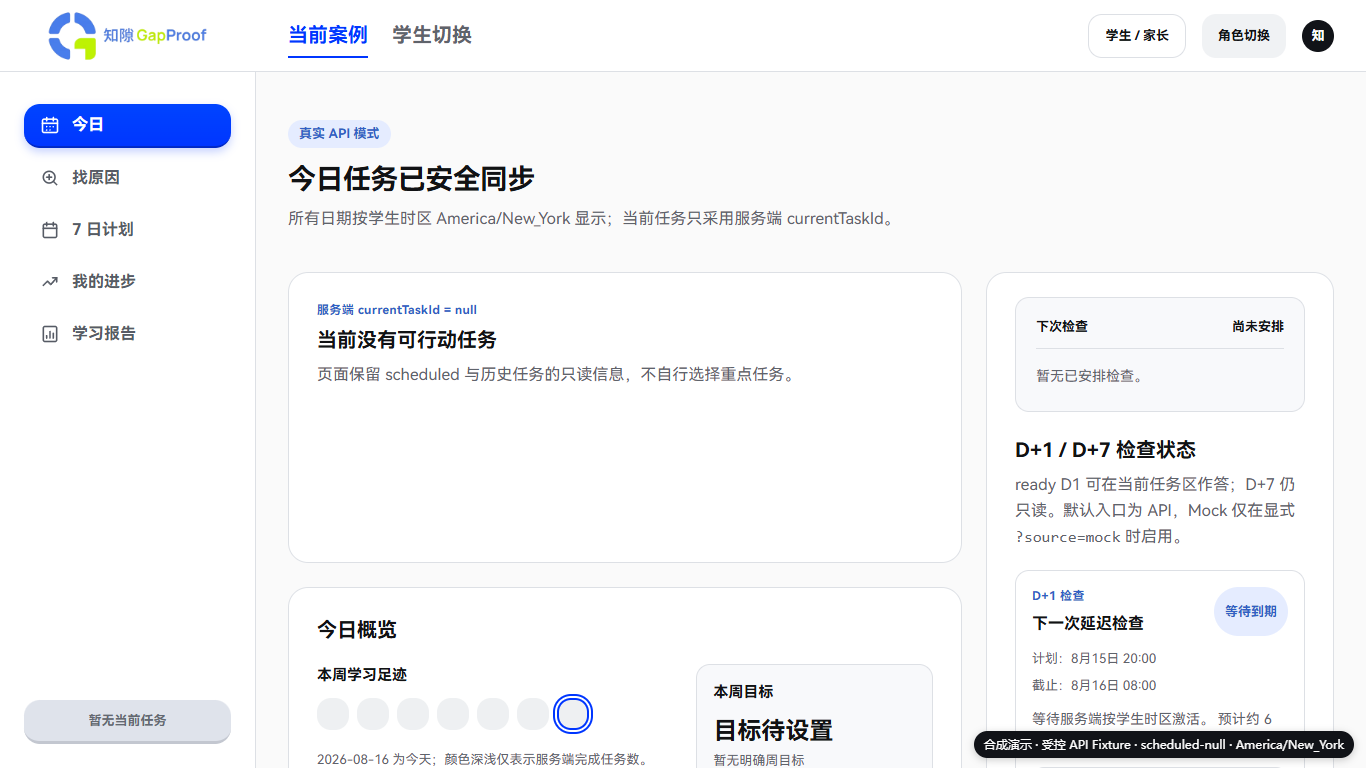
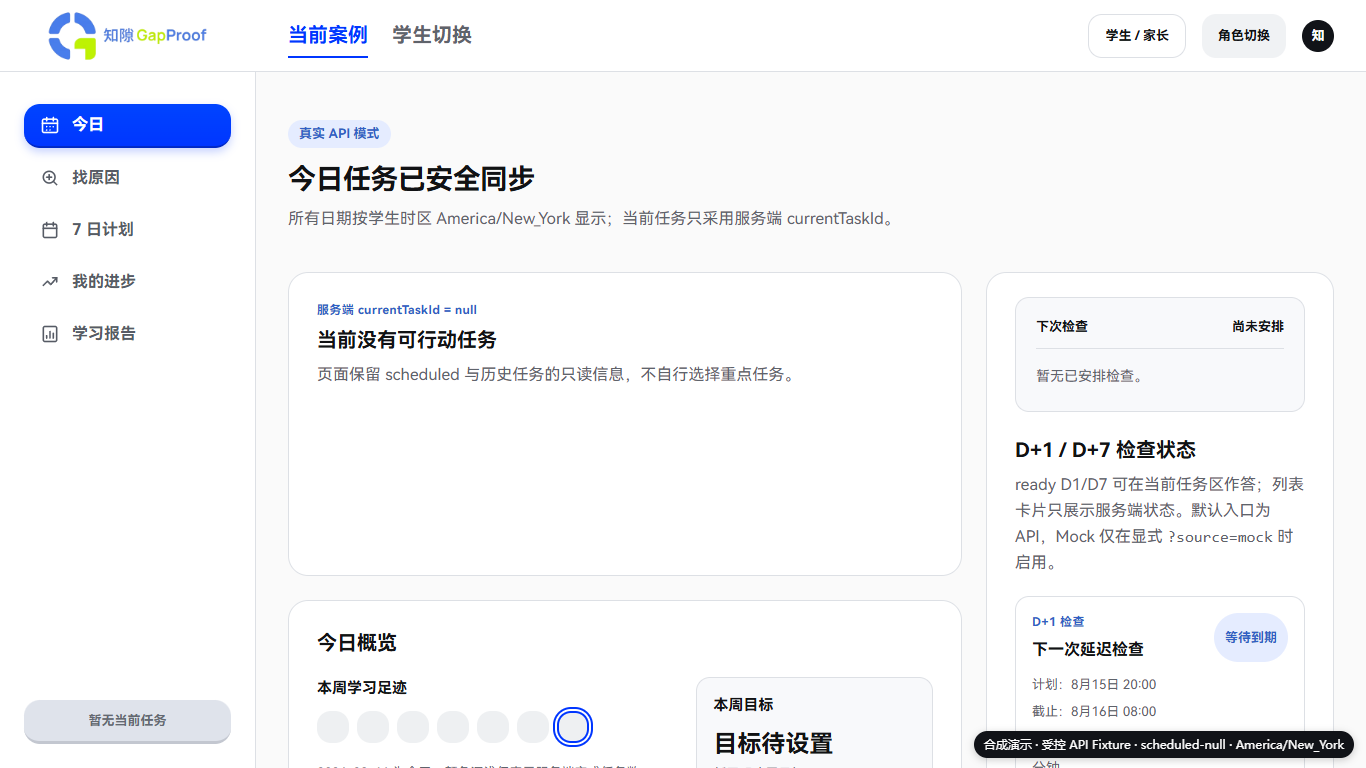
feat: submit D7 retests safely from Today

diff --git a/PROJECT_MASTER.md b/PROJECT_MASTER.md
@@ -2,9 +2,9 @@
 project_name: "知隙 GapProof"
 document_title: "GapProof 项目主文档（Project Master / 单一事实源）"
 document_role: "跨窗口协作、产品规划、技术设计、比赛交付与状态管理的唯一主文档"
-version: "0.1.32"
+version: "0.1.33"
 status: "ACTIVE"
-current_stage: "项目本身初赛验收冲刺；PUSH-017 引导任务完成与 D7/两次重排封顶已通过门禁待发布；D7 前端作答和显式识别创建 Case 仍待实现"
+current_stage: "项目本身初赛验收冲刺；PUSH-018 D7 前端安全作答已通过门禁待发布；显式识别创建 Case 仍待实现"
 last_updated: "2026-08-15"
 timezone: "Asia/Singapore"
 owner: "项目发起人"
@@ -131,6 +131,7 @@ next_action:
 - 迁移保持选择性：只替换达到阈值或漂移的任务，健康任务继续使用；仅协调任务自身触发阈值时才迁移控制面。新任务从最新 Git 锚点创建，不携带旧全文上下文。
 - 协调迁移时只更新同一个 heartbeat target，并停止旧协调的持续目标/自动续跑；不得复制 heartbeat。执行任务不创建独立长期目标。
 - 新建前端或后端执行任务时默认显式使用 `gpt-5.6-luna`、`high` 推理强度；新建协调/文档治理任务时默认显式使用 `gpt-5.6-sol`、`medium` 推理强度。仅在用户另行指定、目标主机不支持或安全恢复需要时偏离，并在交接中记录原因；该规则适用于后续版本与选择性迁移。
+- 用户已在 Codex 客户端为本项目选择“完全访问”；当前及后续前端、后端、协调/文档治理版本在平台实际授予的权限内，常规只读核验、分支/工作树操作、项目文件读写、构建/测试、精确暂存、提交与既定远端推送直接执行，不重复请求用户批准。若某条路径仍被平台强制拦截，改用同权限范围内的等价安全路径并如实记录；本规则不绕过平台安全政策，不扩大任务范围，也不授权未明确要求的破坏性操作或外部主体权限。
 - 本协调目标中的“初赛验收标准”只评估项目本身的代码、契约、交互、测试、数据/隐私边界与可复现性；作品简介、PPT/PDF、视频、报名、提交系统和其他参赛材料不属于本任务的完成条件。竞赛材料可继续作为项目事实记录，但不进入本协调任务的派工与验收门槛。
 
 ---
@@ -143,7 +144,7 @@ next_action:
 
 `[FACT]` GOAI 无界应用赛道参赛手册列出的初赛截止日期为 2026-08-16；具体当天截止时刻、入口、文件大小及后续通知仍须在官网、提交系统或官方群再次核对。
 
-`[DECISION]` 当前处于：**项目本身初赛验收冲刺；学生端“今日”页默认入口已接入真实 API，ready guided 与 D1 均有受控提交，服务端已实现 D7 客观复测、最多两次规则化合成重排和 `support_required` 封顶。D7 前端作答仍未接入。当前初赛项目验收允许使用醒目标注的合成 OCR Demo；真实阿里云 OCR 后置。图片基础检查后必须由用户显式执行“开始识别并创建案例”，该真实 Case/OCR 写入契约尚未冻结或实现。异步报告不属于本轮项目验收；`report_ready` 仅保留“报告已生成、有权威引用且当前可读”的严格语义**。
+`[DECISION]` 当前处于：**项目本身初赛验收冲刺；学生端“今日”页默认入口已接入真实 API，ready guided、D1 与 D7 均有受控提交；D7 客观复测通过仅显示 `repair_verified` 中性结果，失败最多两次规则化合成重排后进入 `support_required`。当前初赛项目验收允许使用醒目标注的合成 OCR Demo；真实阿里云 OCR 后置。图片基础检查后必须由用户显式执行“开始识别并创建案例”，该真实 Case/OCR 写入契约尚未冻结或实现。异步报告不属于本轮项目验收；`report_ready` 仅保留“报告已生成、有权威引用且当前可读”的严格语义**。
 
 ### 1.2 已完成
 
@@ -187,7 +188,7 @@ next_action:
 - `[PLANNED]` 尚未建立 30–40 个技能节点及 12 个深度节点的图谱 V0.1。
 - `[PLANNED]` 尚未制作比赛用原创模拟试卷、合成学生轨迹和独立金标集。
 - `[PLANNED]` 尚未确认至少一位英语教育背景人员能否短时抽检核心金标内容。
-- `[PROTOTYPE]` 已建立最小后端 Thin Slice，并完成真实图片字节上传、确定性图片 header/尺寸质量检查、受 Demo 守卫的 Fake OCR、无网络合成识别确认演示、确定性干预生成、guided/D1 前端提交、D1/D7 后端评分及两次规则化重排封顶；尚未形成从真实 OCR 识别到修复证明的完整端到端 Demo。显式 Case/OCR 启动、识别读取/确认写入、真实 AI 干预、真实题库、D7 前端、真实个性化内容与通知仍未实现；异步报告本轮 deferred。
+- `[PROTOTYPE]` 已建立最小后端 Thin Slice，并完成真实图片字节上传、确定性图片 header/尺寸质量检查、受 Demo 守卫的 Fake OCR、无网络合成识别确认演示、确定性干预生成、guided/D1/D7 前端安全提交、D1/D7 后端评分及两次规则化重排封顶；尚未形成从真实 OCR 识别到修复证明的完整端到端 Demo。显式 Case/OCR 启动、识别读取/确认写入、真实 AI 干预、真实题库、真实个性化内容与通知仍未实现；异步报告本轮 deferred。
 - `[PROTOTYPE]` 学生端“今日”页 F0 Mock、F1b 只读 API、F1c ready D1 客户端作答及真实概览投影已完成对应技术门禁；受控 HTTP 浏览器 Fixture 已证明成功、冲突和网络未知三条交互边界。默认入口现为 API，只有显式 `?source=mock` 使用合成页面；业务主闭环仍未完成，其余学生 P0 页面、家长端页面和评委最小页仍未完成。
 - `[PLANNED]` 尚未完成正式 500 字简介、初赛 PPT、视频、README、数据卡、依赖清单和合规一页纸。
 - `[PLANNED]` 尚未产生可报告的工程评测结果或真实学生学习效果。
@@ -2025,11 +2026,11 @@ review_date:
 | DEC-028 | MVP Agent 固定为六节点 LangGraph.js 图 | accepted | 新增节点必须更新图版本、Schema 和 Golden Cases |
 | DEC-029 | 所有工具先完成接口、Schema、Mock 和错误处理；verify_item/schedule_retest 做 MVP 最小实现 | accepted | 工具边界或 Provider 能力变化 |
 | DEC-030 | escalate_human 先创建待处理记录；analyze_speech/score_writing 暂缓真实能力 | accepted | 真实人工、语音或写作试点启动 |
-| DEC-031 | UUIDv7 + PostgreSQL 16+，完整表结构和删除策略以 TDD v0.3.25 为准 | accepted | 数据规模、扩展支持或合规要求变化 |
+| DEC-031 | UUIDv7 + PostgreSQL 16+，完整表结构和删除策略以 TDD v0.3.26 为准 | accepted | 数据规模、扩展支持或合规要求变化 |
 | DEC-032 | TDD 详细 API 路由为唯一正式接口 | accepted | API 版本升级或新客户端边界产生 |
 | DEC-033 | 杭州阿里云单区域联网 Docker Compose，真实 Provider 演示，Mock 仅测试/故障注入 | accepted | 比赛网络、并发、合规或可用性要求变化 |
 | DEC-034 | DeepSeek `deepseek-v4-flash`、MiniMax `minimax-m3`、腾讯混元 Embedding 作为当前模型配置 | accepted | 账号权限、供应商模型版本或评测结果变化 |
-| DEC-035 | 学生端“今日”页桌面视觉基线已选定；使用 `#0036FF` 导航/进度与 `#B5F800` 行动/积极变化，完整规范以 DESIGN v0.2.22 为准 | accepted | 真实前端实现、可用性测试或品牌资产定稿产生反证 |
+| DEC-035 | 学生端“今日”页桌面视觉基线已选定；使用 `#0036FF` 导航/进度与 `#B5F800` 行动/积极变化，完整规范以 DESIGN v0.2.23 为准 | accepted | 真实前端实现、可用性测试或品牌资产定稿产生反证 |
 | DEC-036 | 新用户今日页先完成第一次检查，不显示虚构的足迹、进展或下次检查；首次任务生成后切换常规今日页 | accepted | onboarding 实测或产品范围变化 |
 | DEC-037 | 目标教材 ISBN 为 `978-7-5720-3630-9`；配套练习 `978-7-5720-3519-7` 不纳入 MVP | accepted | 版权页或出版社正式材料产生冲突 |
 | DEC-038 | 购买教材/试题及完整转换文本保持本地私有并排除 Git；仓库只保存元数据、处理器和项目原创/合成内容 | accepted | 取得可归档的明确再分发许可且完成权利复核 |
@@ -2058,7 +2059,7 @@ review_date:
 | 初赛 PPT | `[PLANNED]` | 8–10 页覆盖评分项 | 原型/图表 |
 | 原创模拟试卷 | `[PLANNED]` | 来源自有、已知根因、许可清楚 | 技能示例 |
 | 合成 Case | `[PROTOTYPE]` | 已完成 1 个原创合成 Case 及低置信、复测失败重排、D+7 成功分支；仍需扩充同题同错不同根因与回归集 | 数据 Schema/教材映射 |
-| 学生“今日”页视觉基线 | `[PROTOTYPE]` | 已选定 Stitch 桌面稿；默认 API、真实概览、guided 完成与 ready D1 客户端作答已通过技术门禁，合成 Mock 仅显式启用；D7 后端已可评分但前端作答仍待接入 | DESIGN v0.2.22 |
+| 学生“今日”页视觉基线 | `[PROTOTYPE]` | 已选定 Stitch 桌面稿；默认 API、真实概览及 guided、ready D1、ready D7 安全作答已通过技术门禁，合成 Mock 仅显式启用；冻结书本越界裁切保持不变 | DESIGN v0.2.23 |
 | 其余学生/家长关键页设计 | `[PLANNED]` | 覆盖主闭环并遵循今日页设计准则 | 视觉基线 |
 | 可点击 Thin Slice | `[PLANNED]` | 上传到修复证明全链路 | 设计/开发 |
 | 数据与合规页 | `[PLANNED]` | 类型、来源、授权、脱敏、删除、边界 | 数据选择 |
@@ -2117,6 +2118,13 @@ review_date:
 ---
 
 ## 30. 变更日志
+
+### v0.1.33 — 2026-08-15
+
+- 合并 Today ready D7 安全作答：提交前读取权威 Case `stateVersion`，一次明确意图使用 UUIDv7，同 key/body 仅重试一次未知/可重试结果；`VERSION_CONFLICT` 刷新后要求重新确认，第二次未知后以 `NETWORK_UNKNOWN` 锁定。
+- 结果只按服务端显示 `repair_verified`、`replan_required` 或 `support_required`；通过不称报告 ready，失败不称真实个性化或已接人工服务。D7 受控浏览器 Fixture 覆盖成功、冲突与网络未知，API 双视口保持 Stitch V1.1 深色卡书本越界裁切。
+- 130 fast、54 PostgreSQL/API/Worker integration、88 apps/web、migration drift、D7/D1/guided/上传/Demo 浏览器 Fixture、Mock/API/Demo 双视口、双 TypeScript 与 Next production build 通过。
+- 登记后续前端、后端与协调/文档治理版本继承用户已授予的完全访问权限，常规项目动作不重复审批；不绕过平台安全或扩大破坏性权限。同步 PRD v0.1.25、TDD v0.3.26、DESIGN v0.2.23 与 PUSH-018。真实 OCR、显式创建 Case/启动识别、30–50 页基准、派生数据留存和异步报告仍保持 unresolved/deferred。
 
 ### v0.1.32 — 2026-08-15
 

diff --git a/PRD.md b/PRD.md
@@ -7,10 +7,10 @@
 
 | 项目 | 内容 |
 |---|---|
-| 文档状态 | Draft v0.1.24 |
+| 文档状态 | Draft v0.1.25 |
 | 产品名称 | 知隙 GapProof |
 | 文档角色 | 产品需求、业务流程、功能范围与验收标准 |
-| 当前阶段 | PUSH-017 guided 完成与 D7/两次重排封顶已通过门禁待发布；D7 前端作答与显式识别创建 Case 仍待实现 |
+| 当前阶段 | PUSH-018 D7 前端安全作答已通过门禁待发布；显式识别创建 Case 仍待实现 |
 | 产品形态 | Web 应用 |
 | 目标教材 | 上海教育出版社《义务教育教科书（五·四学制）英语 八年级上册》 |
 | 适用版本 | 目标教材以 ISBN、当前 PDF 哈希和内容快照锁定；版权页不可取得，版次、印次和册次保持未知 |
@@ -497,10 +497,10 @@ Demo 界面或旁白必须明确区分：
 - `[PROTOTYPE]` Worker 可从 `intervention_ready` 生成 3 步/8 分钟的确定性最小干预任务并进入 `intervention_active`；学生可通过正式接口读取今日任务并提交完整步骤。提交后系统原子创建 24 小时后的 D+1 复测任务、进入 `d1_scheduled`，但 mastery 仅为 `pending_retest`。
 - `[PROTOTYPE]` D+1 任务通过事务内 `retest.due` 延迟 Job 和生产 Worker 到期激活；Demo 可在受环境开关保护的虚拟时钟接口中按 Case 快进。到期仅把任务从 `scheduled` 改为 `ready`，Case 仍为 `d1_scheduled`、mastery 仍为 `pending_retest`。
 - `[PROTOTYPE]` D+1 ready 任务现可通过共享 `POST /v1/tasks/{taskId}/attempts` 契约提交客观选择并由服务端私有答案确定性评分；通过时创建 D7 调度，失败时事务内入队异步重排。当前题目与重排内容仍为明确标记的合成 Fixture，不是现实题库或真实个性化效果。
-- `[PROTOTYPE]` ready D7 已复用同一 attempts 路由完成服务端确定性评分：通过进入 `repair_verified`，不会冒充 `report_ready`；失败按持久 `replan_count` 最多自动重排两次，策略依次为“更换讲解表达与练习形式”和“下探一个前置技能并加入示例”，再次失败进入 `support_required` 且不再入队。D7 前端作答仍未实现；规则化合成内容不等于真实个性化或真实人工协助。
+- `[PROTOTYPE]` ready D7 已复用同一 attempts 路由完成跨端安全作答与服务端确定性评分：Today 提交前读取权威 Case 版本，使用 UUIDv7、同 key/body 单次未知重试、冲突重新确认与未知结果锁定；通过进入 `repair_verified`，不会冒充 `report_ready`；失败按持久 `replan_count` 最多自动重排两次，再次失败进入 `support_required` 且不再入队。规则化合成内容不等于真实个性化或真实人工协助。
 - `[PROTOTYPE]` ready guided intervention 已可在 Today 勾选完整步骤并安全提交；使用权威 Case 版本、UUIDv7 幂等意图、冲突重新确认、独立 GET 恢复和网络未知锁定，完成后只声明安排 D+1，不声明掌握。
-- `[PROTOTYPE]` 学生端“今日”页 F0 Mock、F1b 只读 API、F1c ready D1 客户端作答与真实 overview 已通过对应构建和自动化门禁；F1c 使用共享 attempts contracts、权威 Case 版本、UUIDv7 幂等意图和受控错误状态。受控 HTTP 浏览器 Fixture 已覆盖真实点击成功、`VERSION_CONFLICT` 重新确认与 `NETWORK_UNKNOWN` 锁定三条路径；无参数入口现走真实 API，只有显式 `?source=mock` 使用合成页面，但仍不能作为主闭环完成证据。
-- `[PROTOTYPE]` 已实现 JPEG/PNG/WebP、1B–10MiB 的真实字节上传与确定性图片基础检查闭环：`/materials/new` 计算 SHA-256，以 UUIDv7 固定一次上传/prepare 意图，经同源 API PUT 同一原始字节并读取异步状态；服务端校验归属、MIME/大小/hash，原子落盘后由 `source_asset.quality_check` Worker 验证字节并持久化质量状态。页面不显示对象键、token、内部 ID、文件名、hash 或 OCR 内容。该能力仅是本地 Demo 存储与 `image-header-v1` 检查器，不是生产 S3、完整图片质量模型、OCR、识别确认、Case 创建或真实学习效果；显式创建 Case/启动识别、D7 前端和完整上传到修复证明主闭环仍未实现。
+- `[PROTOTYPE]` 学生端“今日”页 F0 Mock、F1b API、F1c ready D1 与 ready D7 客户端作答及真实 overview 已通过对应构建和自动化门禁；D1/D7 使用共享 attempts contracts、权威 Case 版本、UUIDv7 幂等意图和受控错误状态。D7 受控 HTTP 浏览器 Fixture 已覆盖真实点击成功、`VERSION_CONFLICT` 重新确认与 `NETWORK_UNKNOWN` 锁定三条路径；无参数入口现走真实 API，只有显式 `?source=mock` 使用合成页面，但显式创建 Case/启动识别尚未完成，因此仍不能作为完整主闭环完成证据。
+- `[PROTOTYPE]` 已实现 JPEG/PNG/WebP、1B–10MiB 的真实字节上传与确定性图片基础检查闭环：`/materials/new` 计算 SHA-256，以 UUIDv7 固定一次上传/prepare 意图，经同源 API PUT 同一原始字节并读取异步状态；服务端校验归属、MIME/大小/hash，原子落盘后由 `source_asset.quality_check` Worker 验证字节并持久化质量状态。页面不显示对象键、token、内部 ID、文件名、hash 或 OCR 内容。该能力仅是本地 Demo 存储与 `image-header-v1` 检查器，不是生产 S3、完整图片质量模型、OCR、识别确认、Case 创建或真实学习效果；显式创建 Case/启动识别和完整上传到修复证明主闭环仍未实现。
 - `[PROTOTYPE]` 遗留 Fake OCR 只允许 `simulation && synthetic` 的 Demo Case，API 与 Worker 双重拒绝非 Demo 路径。`/materials/demo/review` 是明确标注的无网络合成识别确认演示：允许本地修正和记录演示确认，提供空态/错误态，但不调用 `/api/v1`、不启动 OCR、不创建或推进 Case、不生成学习结论。真实上传到 Case 的绑定、识别结果读取 DTO 与确认写入仍未实现。
 - 因此，以下验收项仍是完整 MVP 的目标，不因后端局部闭环而标记为 `[LIVE]`。
 
@@ -545,7 +545,7 @@ Demo 界面或旁白必须明确区分：
 - 确认小题提交具有未选择、已选择、提交中、已接收、冲突、失败六种 UI 状态。成功后使用中性“已收到，正在准备下一步”反馈，不把诊断探针包装成考试分数，也不显示内部答案键或评分映射。
 - 当前确认小题、Today、任务详情、干预提交及 D1 `POST /v1/tasks/{taskId}/attempts` 均已具备共享请求/响应 Schema。前端只可消费 `@gapproof/contracts`，不得自行补写任务字段、答案、掌握结论或服务端未返回的首页事实。
 - D+1 的 `scheduled → ready` 由服务端到期 Worker 或 Demo 虚拟时钟产生；学生端不得自行倒计时改状态。`ready` 只表示允许进入复测；只有服务端返回的 D1 attempt 结果才能表示本次通过/失败，且 D1 通过只进入 `d7_scheduled`，不得提前宣称已经掌握。
-- Today 的 `currentTaskId` 为服务端权威 `uuid | null`；当前可行动的 ready D1、ready D7 或 ready guided 任务可被引用，scheduled、completed 或无任务时为 `null`。前端不得从数组顺序猜测替代任务；当前 D7 前端仍只读，须由后续切片接入共享 attempts 契约。
+- Today 的 `currentTaskId` 为服务端权威 `uuid | null`；当前可行动的 ready D1、ready D7 或 ready guided 任务可被引用，scheduled、completed 或无任务时为 `null`。前端不得从数组顺序猜测替代任务；ready D7 已接入共享 attempts 契约，scheduled/completed D7 与“下次检查”卡仍只读。
 - Today 的 `overview` 由服务端始终提供：恰好 7 个截至学生本地“今天”的连续日期及完成任务数、真实周目标或 `null`、未删除待确认 Case 数、最多两条脱敏进展，以及最早 scheduled D1/D7 检查。当前无权威周目标存储，因此返回 `weeklyGoal:null`；显式 API 页面缺失该字段时必须受控报错，不得回退 Mock 或推断百分比。
 - 干预提交必须恰好覆盖任务全部步骤；提交中禁用重复操作，`INVALID_INPUT` 保留已选步骤，`INVALID_TASK_STATE` 刷新今日任务并解释任务已变化，`VERSION_CONFLICT` 只自动刷新一次，不自动重复写入。
 
@@ -656,6 +656,7 @@ PROJECT_MASTER.md
 
 | 版本 | 日期 | 说明 |
 |---|---|---|
+| 0.1.25 | 2026-08-15 | 发布 Today ready D7 安全作答、权威 Case 版本、UUIDv7、同 key/body 单次未知重试、冲突重新确认、`NETWORK_UNKNOWN` 锁定及三种服务端结果中性文案；不开放报告、不宣称真实个性化/人工服务。同步 PROJECT_MASTER v0.1.33、TDD v0.3.26、DESIGN v0.2.23 与 PUSH-018；显式创建 Case/启动识别、真实 OCR、30–50 页基准、派生数据留存和异步报告仍 unresolved/deferred |
 | 0.1.24 | 2026-08-15 | 发布 guided 安全完成与服务端 D7 客观评分、两次规则化重排及 `support_required` 封顶；确认合成 OCR 可满足本轮项目验收、显式开始识别/创建 Case、阿里云处理与未成年人边界、严格 `report_ready` 和异步报告 deferred。D7 前端、真实 OCR、30–50 页基准、派生数据留存仍未完成；同步 PROJECT_MASTER v0.1.32、TDD v0.3.25、DESIGN v0.2.22 与 PUSH-017 |
 | 0.1.23 | 2026-08-15 | 发布受 `simulation && synthetic` 双重守卫的遗留 Fake OCR 与 `/materials/demo/review` 无网络合成识别确认演示；浏览器 Fixture 证明零 `/api/v1`、本地确认、空/错态和脱敏边界。明确不是真实 OCR、上传到 Case 绑定或学习效果；同步 PROJECT_MASTER v0.1.31、TDD v0.3.24、DESIGN v0.2.21 与 PUSH-016，D7/报告/重排产品决策继续暂停 |
 | 0.1.22 | 2026-08-15 | 发布真实确定性图片基础检查闭环：prepare/status contracts、幂等异步 Job、存储字节复核、JPEG/PNG/WebP header/尺寸解析、质量状态持久化及受控前端轮询；明确不是 OCR/完整图片质量模型/生产 S3/学习效果，D7/报告/重排产品决策继续暂停；同步 PROJECT_MASTER v0.1.30、TDD v0.3.23、DESIGN v0.2.20 与 PUSH-015 |

diff --git a/TDD.md b/TDD.md
@@ -2,15 +2,15 @@
 project_name: "知隙 GapProof"
 document_title: "GapProof 技术设计文档（TDD）"
 document_role: "技术路线、系统边界、架构约束与工程验收的权威文档"
-version: "0.3.25"
+version: "0.3.26"
 status: "DRAFT_FOR_IMPLEMENTATION"
 last_updated: "2026-08-15"
 timezone: "Asia/Singapore"
 canonical_path: "D:\\Users\\Eason\\Documents\\ChatGPT\\知隙GapProof\\TDD.md"
 repository_url: "https://github.com/ceason436-hue/GapProof.git"
 upstream_documents:
-  - "D:\\Users\\Eason\\Documents\\ChatGPT\\知隙GapProof\\PROJECT_MASTER.md v0.1.32"
-  - "D:\\Users\\Eason\\Documents\\ChatGPT\\知隙GapProof\\PRD.md Draft v0.1.24"
+  - "D:\\Users\\Eason\\Documents\\ChatGPT\\知隙GapProof\\PROJECT_MASTER.md v0.1.33"
+  - "D:\\Users\\Eason\\Documents\\ChatGPT\\知隙GapProof\\PRD.md Draft v0.1.25"
 ---
 
 # 知隙 GapProof 技术设计文档（TDD）
@@ -1598,6 +1598,7 @@ Git 远端：`https://github.com/ceason436-hue/GapProof.git`
 6. Push Log 描述该次推送包含的功能/文档提交；Git commit SHA、作者和精确时间以远端 Git 历史为准，避免为记录提交自身 SHA 形成递归修改。
 7. 新建前端/后端执行任务默认显式指定 `gpt-5.6-luna` 与 `high` 推理强度；新建协调/文档治理任务默认显式指定 `gpt-5.6-sol` 与 `medium` 推理强度。后续迁移与版本继续继承，偏离时必须记录用户指令、主机能力或安全恢复原因。
 8. 本协调目标中的初赛验收只评估项目本身的代码、契约、交互、测试、数据/隐私边界与可复现性；简介、PPT/PDF、视频、报名、提交系统及其他参赛材料不计入完成条件。
+9. 用户已为本项目选择 Codex“完全访问”；后续前端、后端、协调/文档治理版本在平台实际授予的权限内直接完成常规核验、项目文件读写、分支/工作树、构建/测试、精确暂存、提交与既定远端推送，不重复请求批准。平台强制拦截时使用同权限范围内等价安全路径并记录；不得借此绕过安全政策、扩大切片或执行未明确要求的破坏性操作。
 
 | Push ID | 日期 | 分支 | 状态 | 提交摘要 | 主要内容 | 验证 |
 |---|---|---|---|---|---|---|
@@ -1618,8 +1619,16 @@ Git 远端：`https://github.com/ceason436-hue/GapProof.git`
 | PUSH-015 | 2026-08-15 | `main` | `pushed` | `feat: inspect uploaded source images safely` | 冻结 prepare/status/quality/job contracts；实现幂等 `source_asset.quality_check`、Worker 存储读取与 size/hash 复核、JPEG/PNG/WebP header/尺寸解析、guarded 状态和 0007 migration；前端复用 UUIDv7 意图、受控轮询并显示脱敏质量状态。仅为确定性基础检查，不是 OCR/完整图片质量模型/生产 S3/学习效果；D7/报告/重排产品决策继续暂停 | 116 条快速测试、49 条真实 PostgreSQL/API/Worker 集成测试连续两轮、70 条 apps/web 测试、Drizzle migration drift、Mock/API/图片检查双视口、图片检查与 D1 浏览器 Fixture、全仓 TypeScript、Next.js production build、`git diff --check`、敏感/私有材料/生成缓存与暂存范围审计通过；同轮推送并核对本地/远端 SHA 一致 |
 | PUSH-016 | 2026-08-15 | `main` | `pushed` | `feat: guard and demonstrate synthetic recognition review` | 遗留 Fake OCR 仅允许 `simulation && synthetic` Demo Case，API/Worker 双重守卫；新增 `/materials/demo/review` 无网络合成识别确认演示、本地编辑/确认、空态和错误态。仍为 `fake_ocr` 与合成页面，不是真实 OCR、上传到 Case 绑定、识别写入或学习效果；D7/报告/重排产品决策继续暂停 | 121 条快速测试、50 条真实 PostgreSQL/API/Worker 集成测试、73 条 apps/web 测试、Drizzle migration drift、Demo/上传/D1 浏览器 Fixture、Mock/API/Demo 双视口、全仓 TypeScript、Next.js production build、`git diff --check`、敏感/私有材料/生成缓存与暂存范围审计通过；同轮推送并核对本地/远端 SHA 一致 |
 | PUSH-017 | 2026-08-15 | `main` | `pushed` | `feat: complete guided tasks and cap retest replans` | 合并 guided 安全完成、ready D7 服务端评分、`repair_verified`、持久两次差异化重排与 `support_required` 封顶；同步五项最终产品决策与严格 `report_ready`。D7 前端、真实 OCR、显式创建 Case/启动识别、异步报告仍未实现；规则内容仍为合成骨架 | 126 条快速测试、54 条真实 PostgreSQL/API/Worker 集成测试、81 条 apps/web 测试、Drizzle migration drift、guided/D1/上传/Demo 浏览器 Fixture、Mock/API/Demo 双视口、全仓 TypeScript、Next.js production build、`git diff --check`、敏感/私有材料/生成缓存与暂存范围审计通过；同轮推送并核对本地/远端 SHA 一致 |
+| PUSH-018 | 2026-08-15 | `main` | `pushed` | `feat: submit D7 retests safely from Today` | 合并 ready D7 前端安全作答、权威 Case `stateVersion`、UUIDv7、同 key/body 单次未知重试、冲突刷新后重新确认与 `NETWORK_UNKNOWN` 锁定；只显示 `repair_verified` / `replan_required` / `support_required` 中性结果，不开放报告。同步四主文档与完全访问长期治理；显式创建 Case/启动识别、真实 OCR 与异步报告仍未实现 | 130 条快速测试、54 条真实 PostgreSQL/API/Worker 集成测试、88 条 apps/web 测试、Drizzle migration drift、D7/D1/guided/上传/Demo 浏览器 Fixture、Mock/API/Demo 双视口、全仓及 web TypeScript、Next.js production build、`git diff --check`、敏感/私有材料/生成缓存与暂存范围审计通过；同轮推送并核对本地/远端 SHA 一致 |
 
 ## 27. 变更日志
+
+### v0.3.26 — 2026-08-15
+
+- 接入 Today ready D7 前端 attempts：共享 D7 schema、权威 Case 版本、UUIDv7 幂等意图、POST 同 key/body 一次未知/可重试结果重试、冲突刷新后重新确认及未知结果锁定。
+- 三种结果仅消费服务端 `repair_verified`、`replan_required`、`support_required`；UI 不返回答案键、评分方法、内部 ID 或报告状态。受控 HTTP Fixture 覆盖成功、冲突和网络未知；API 双视口新增 current D7 正常态。
+- 130 fast、54 PostgreSQL/API/Worker integration、88 apps/web、Drizzle migration drift、D7/D1/guided/上传/Demo 浏览器 Fixture、Mock/API/Demo 双视口、双 TypeScript 与 Next production build 通过。
+- 同步 PROJECT_MASTER v0.1.33、PRD v0.1.25、DESIGN v0.2.23 与 PUSH-018；登记完全访问长期治理。显式创建 Case/启动识别、真实 OCR、30–50 页基准、派生数据留存与异步报告仍 unresolved/deferred。
 
 ### v0.3.25 — 2026-08-15
 

diff --git a/DESIGN.md b/DESIGN.md
@@ -2,9 +2,9 @@
 project_name: "知隙 GapProof"
 document_title: "GapProof 视觉与交互设计文档（DESIGN）"
 document_role: "信息架构、页面、视觉、交互、状态与可访问性的权威文档"
-version: "0.2.22"
+version: "0.2.23"
 status: "DRAFT_FOR_IMPLEMENTATION"
-current_design_stage: "PUSH-017 guided 完成与 D7/两次重排封顶已通过门禁待发布；D7 前端作答与显式识别创建 Case 仍待实现"
+current_design_stage: "PUSH-018 D7 前端安全作答已通过门禁待发布；显式识别创建 Case 仍待实现"
 last_updated: "2026-08-15"
 timezone: "Asia/Singapore"
 canonical_path: "D:\\Users\\Eason\\Documents\\ChatGPT\\知隙GapProof\\DESIGN.md"
@@ -86,11 +86,11 @@ upstream_documents:
 
 ### 0.3.2 当前阶段与下一步
 
-**已完成**：学生端“今日”页的桌面视觉结构、颜色角色、主要卡片层级和关键静态内容已确定；默认 API、真实 Today overview、ready guided 安全完成与 ready D1 作答已完成对应构建和自动化门禁。两类写入均使用权威 Case 版本、共享 contracts 和 UUIDv7 幂等意图；guided Fixture 额外覆盖 Case GET 失败恢复、冲突重新确认与网络未知锁定。无参数入口展示服务端 7 日足迹、nullable 周目标、待确认数、脱敏进展与下次检查；合成 Mock 仅显式启用。`/materials/new` 已完成真实单图选择、校验、上传、异步基础检查；`/materials/demo/review` 是持久 Demo 标记的无网络合成识别确认演示。服务端 D7 评分和两次重排封顶已有证据，但前端 D7 仍只读。
+**已完成**：学生端“今日”页的桌面视觉结构、颜色角色、主要卡片层级和关键静态内容已确定；默认 API、真实 Today overview、ready guided、ready D1 与 ready D7 安全作答已完成对应构建和自动化门禁。写入均使用权威 Case 版本、共享 contracts 和 UUIDv7 幂等意图；D7 Fixture 覆盖成功、冲突重新确认与两次未知结果锁定。无参数入口展示服务端 7 日足迹、nullable 周目标、待确认数、脱敏进展与下次检查；合成 Mock 仅显式启用。`/materials/new` 已完成真实单图选择、校验、上传、异步基础检查；`/materials/demo/review` 是持久 Demo 标记的无网络合成识别确认演示。
 
-**尚未完成**：真实模糊度、方向、缺页与恶意文件检查，上传 asset 到 Case 的显式绑定/启动识别、OCR 结果读取与确认写入；其他学生 P0 页面、家长端页面、Logo 紧裁/SVG/Favicon 与最终品牌规范、完整交互原型。D7 后端可评分但前端作答仍未实现；异步报告本轮 deferred。
+**尚未完成**：真实模糊度、方向、缺页与恶意文件检查，上传 asset 到 Case 的显式绑定/启动识别、OCR 结果读取与确认写入；其他学生 P0 页面、家长端页面、Logo 紧裁/SVG/Favicon 与最终品牌规范、完整交互原型。异步报告本轮 deferred。
 
-**下一步**：先接入 D7 前端安全作答，再冻结“开始识别并创建案例”的独立幂等意图、asset↔Case 绑定、识别结果读取 DTO 与确认写入契约。任何新字段不得从视觉稿或合成 Fixture 反推业务状态。
+**下一步**：冻结并实现“开始识别并创建案例”的独立幂等意图、asset↔Case 绑定、识别结果读取 DTO 与确认写入契约。任何新字段不得从视觉稿或合成 Fixture 反推业务状态。
 
 ### 0.4 设计底线
 
@@ -1776,6 +1776,13 @@ MVP 不使用雷达图表示英语能力或掌握度，原因：
 ---
 
 ## 22. 版本记录
+
+### v0.2.23 — 2026-08-15
+
+- 发布 Today ready D7 安全作答面板：选择、同步、提交中、冲突、未知结果锁定及 `repair_verified` / `replan_required` / `support_required` 三种结果均使用自然语言，不显示答案键、评分方法或内部 ID。
+- 新增 D7 受控浏览器成功/冲突/网络未知证据及 API current D7 双视口截图；Stitch“今日-最终确认版V1.1”、固定壳层与深色卡书本越界裁切保持不变。
+- 通过只称“第 7 天新题检查已通过/修复验证已有证据”，不称报告 ready、永久掌握或真实学习效果；封顶态只建议老师或家长协助，不暗示已接真实人工服务。
+- 同步 PROJECT_MASTER v0.1.33、PRD v0.1.25、TDD v0.3.26 与 PUSH-018；下一步为显式“开始识别并创建案例”，真实 OCR 与异步报告仍后置。
 
 ### v0.2.22 — 2026-08-15
 
